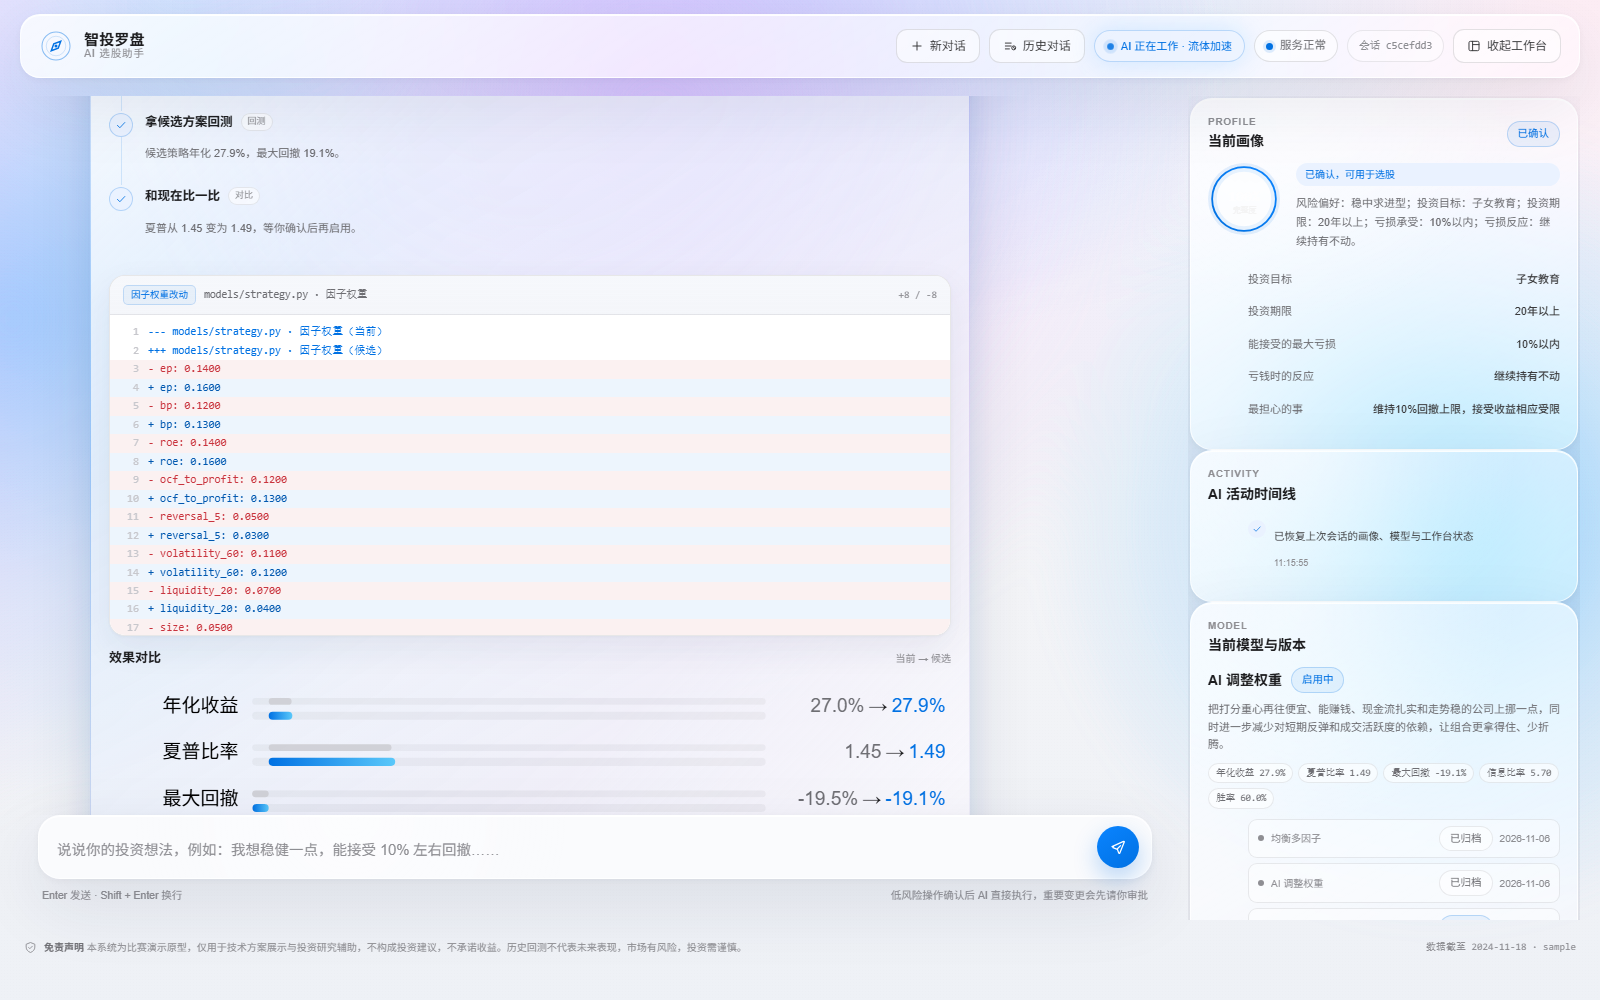
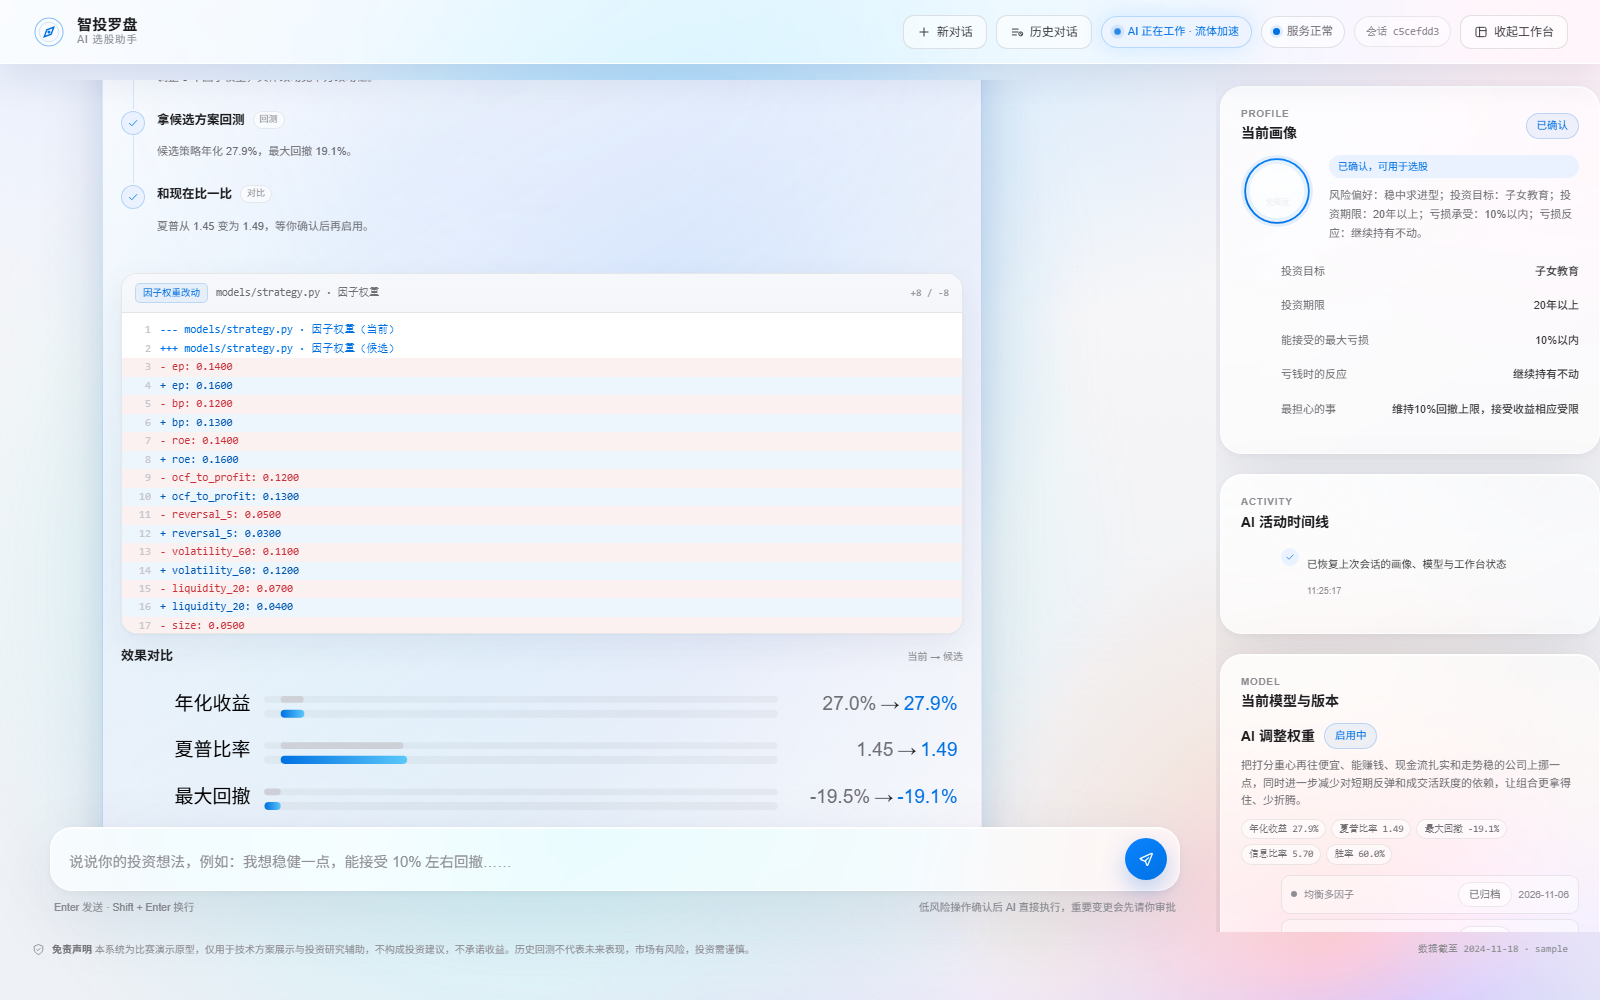
feat(ui): full-width top bar, right-flush transparent workbench with larger card spacing

diff --git a/frontend/style.css b/frontend/style.css
@@ -1057,3 +1057,99 @@ body.ai-working .ambient::after {
     display: none;
   }
 }
+
+
+/* ================================================================
+ * v7：全宽顶栏 + 右侧贴边工作台 + wb-scroll 间距与透明背景
+ * ================================================================ */
+
+.topbar {
+  top: 0;
+  width: 100%;
+  max-width: none;
+  height: 64px;
+  margin: 0;
+  padding: 0 clamp(16px, 2.2vw, 32px);
+  border: 0;
+  border-bottom: 1px solid rgba(255, 255, 255, 0.86);
+  border-radius: 0;
+  box-shadow: 0 12px 40px rgba(32, 44, 78, 0.10);
+}
+
+.workspace {
+  width: 100%;
+  max-width: none;
+  margin: 16px 0 10px;
+  padding: 0 0 0 clamp(16px, 2.2vw, 32px);
+  grid-template-columns: minmax(0, 1fr) minmax(360px, 24vw);
+  gap: 18px;
+  height: calc(100vh - 64px - 84px);
+}
+
+.workbench {
+  min-width: 0;
+  min-height: 0;
+  padding: 0;
+  overflow: hidden;
+  background: transparent;
+}
+
+.wb-scroll {
+  display: flex;
+  flex: 1;
+  flex-direction: column;
+  gap: 20px;
+  min-height: 0;
+  padding: 6px 0 30px 4px;
+  overflow-y: auto;
+  background: transparent;
+}
+
+.wb-card {
+  padding: 20px;
+}
+
+.wb-items {
+  gap: 14px;
+}
+
+.app-footer {
+  width: 100%;
+  max-width: none;
+  margin: 0;
+  padding: 0 clamp(16px, 2.2vw, 32px) 16px;
+}
+
+@media (max-width: 1279px) {
+  .workspace {
+    width: 100%;
+    padding: 0 14px;
+    height: calc(100vh - 64px - 84px);
+  }
+
+  .wb-scroll {
+    padding-right: 4px;
+  }
+}
+
+@media (max-width: 760px) {
+  .topbar {
+    height: 58px;
+    padding: 0 12px;
+  }
+
+  .workspace {
+    margin-top: 10px;
+    padding: 0 10px;
+    height: calc(100vh - 58px - 74px);
+  }
+
+  .wb-scroll {
+    gap: 14px;
+    padding: 4px 0 18px;
+  }
+
+  .app-footer {
+    padding: 0 12px 12px;
+  }
+}

diff --git a/README.md b/README.md
@@ -86,6 +86,7 @@ AI 工作时，背景流体自动加速、提高饱和度：
 - **光学与无障碍细节**：内容自适应透明度（浅色背景更通透）、柔和彩色投影；支持 `prefers-reduced-motion`（关闭动画）与 `prefers-reduced-transparency`（退化为实色磨砂面板）。
 - **绿色使用纪律**：绿色仅用于负向数据（股票/组合下跌、最大回撤等），上涨与正收益使用红系；成功、进行中、普通状态全部使用蓝色或中性灰，避免把绿色当装饰色。
 - **新对话与历史归档**：顶栏「新对话」创建会话；「历史对话」打开归档，可切换回任意历史会话并恢复聊天卡片与代码框。
+- **全宽顶栏与贴边工作台**：顶栏固定在页面顶部、与视口等宽；右侧工作台贴齐页面右边缘；工作台内部滚动容器（`.wb-scroll`）保持透明，卡片间距 20px，透出背后的流体背景而不是灰色底。
 
 ## 对话管理
 
